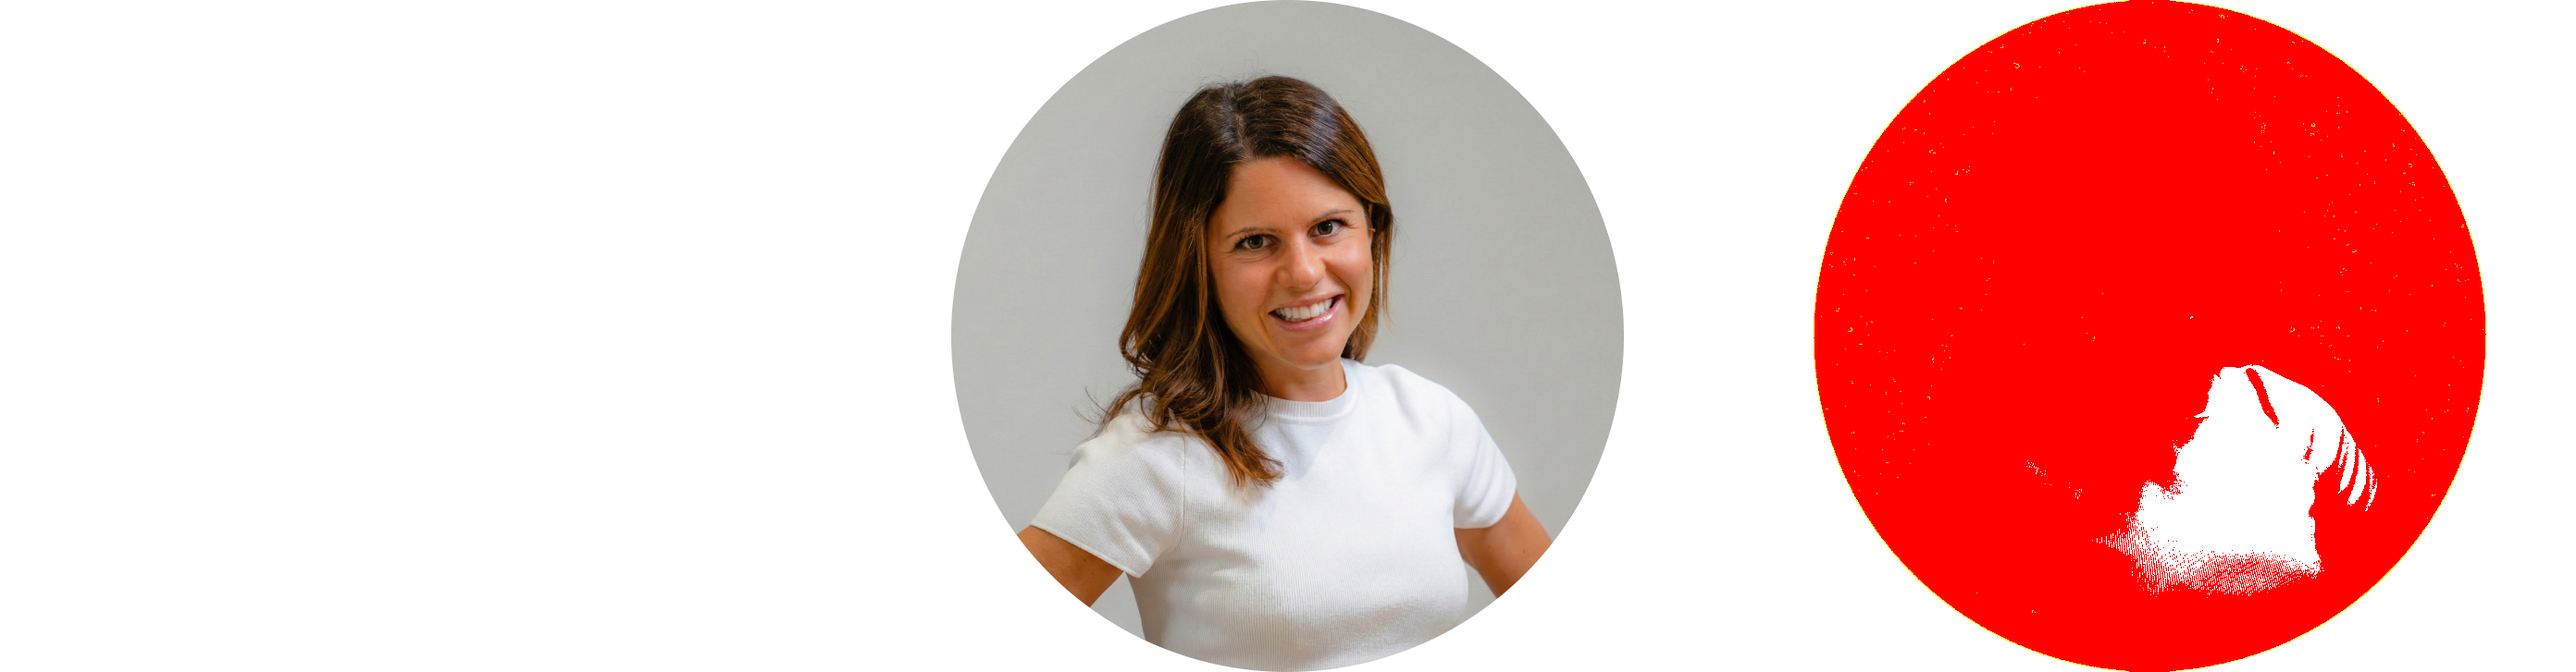
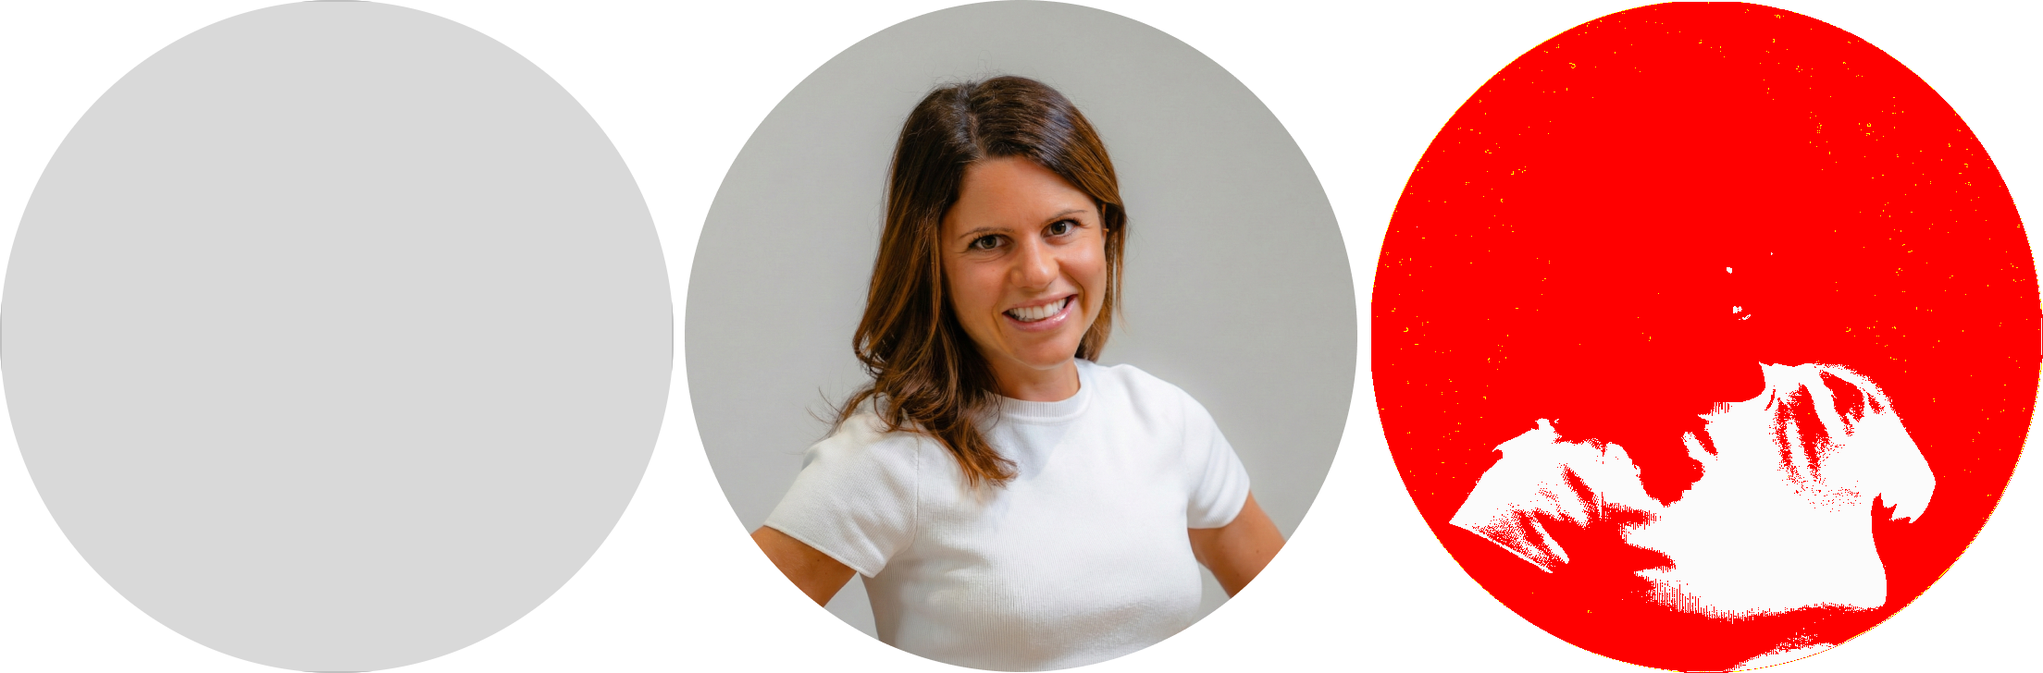
chore(011): régénérer le rapport de parité visuelle + ses triptyques
Relevé produit par l'instrument visual-parity, non issu du travail 013 de ce
commit-ci : le tableau est recalculé et s'étend à realisation, member-picture,
carte, member-card et product-card.

Plusieurs lignes portent **UNTRIAGED** — elles sont NOMMÉES comme telles dans
le rapport plutôt que passées sous silence, mais elles restent à trier : la
cause n'est pas encore établie pour member-picture (Défaut/Survol) et
section-header (Avec CTA, écart de largeur 2174 vs 3093).

Les autres écarts portent déjà leur cause : frontière image A5 (les pixels
IMAGE ne transitent volontairement pas par le contrat), crénage Montserrat
(Chromium crène, Figma non), et défauts de composition ouverts sur field/carte.

diff --git a/extract/figma/visual-parity/REPORT.md b/extract/figma/visual-parity/REPORT.md
@@ -31,6 +31,7 @@ moves the gate, explicitly, after review.
   triaged `renderer`.
 - **Font availability** (checked in-page via `document.fonts.check`):
   - "Montserrat": available locally (same face used in the preview)
+  - "Inter": available locally (same face used in the preview)
 - **Antialiasing**: edge pixels differ per renderer. pixelmatch's antialiasing
   detector is ON (its default) — a per-pixel classifier, not a tolerance knob.
 - **Subpixel positioning**: Figma positions nodes on fractional pixels; CSS layout
@@ -57,36 +58,92 @@ moves the gate, explicitly, after review.
 
 | subject | variant | gate/raw | masked diagnostic | mask coverage | surface | size ours vs figma | diagnosis | named cause (triage.ts) | triptych |
 |---|---|---|---|---|---|---|---|---|---|
-| nav-item | NavItem | 1.51% | 3.28% | 91.32% | dark | 378×24 vs 380×24 | diffuse delta — see triptych | — | report-assets/nav-item--navitem.triptych.png |
-| tab | Etat=Defaut | 0.01% | 0.00% | 68.29% | light | 172×82 vs 172×82 | near-identical | renderer: geometry is exact at 172×82 device px; residual is the master text plane rendering uppercase glyph ink while the bound Figma TEXT property reports default « Onglet », plus cross-renderer glyph rasterization. | report-assets/tab--etat-defaut.triptych.png |
-| tab | Etat=Selectionne | 0.01% | 0.00% | 68.29% | light | 172×82 vs 172×82 | near-identical | renderer: geometry is exact at 172×82 device px; residual is the master text plane rendering uppercase glyph ink while the bound Figma TEXT property reports default « Onglet », plus cross-renderer glyph rasterization. | report-assets/tab--etat-selectionne.triptych.png |
+| realisation | Taille=Grand | 99.97% | 99.97% | 0.00% | light | 1486×1486 vs 1486×1486 | overall ink differs (ours #bfc0c0 vs figma #e0e0e0) | capture-gap: A5 image boundary: Figma paints its non-semantic gray IMAGE placeholder while the runtime imageUrl default is empty; both variant dimensions are exact, but image pixels are intentionally not transported. | report-assets/realisation--taille-grand.triptych.png |
+| realisation | Taille=Petit | 99.86% | 99.86% | 0.00% | light | 679×679 vs 679×679 | overall ink differs (ours #bdc1c0 vs figma #e0e0e0) | capture-gap: A5 image boundary: Figma paints its non-semantic gray IMAGE placeholder while the runtime imageUrl default is empty; both variant dimensions are exact, but image pixels are intentionally not transported. | report-assets/realisation--taille-petit.triptych.png |
+| member-picture | Etat=Defaut | 64.48% | 64.48% | 0.00% | light | 728×728 vs 727×727 | overall ink differs (ours #d9d9d9 vs figma #aba198) | **UNTRIAGED** | report-assets/member-picture--etat-defaut.triptych.png |
+| carte | Disposition=Reassurance | 64.14% | 73.45% | 13.27% | light | 738×1065 vs 736×1064 | overall ink differs (ours #ababad vs figma #845f61) | engine: open component defect: IMAGE pixels are outside the contract transport and the two layouts still need distinct image sizing; Reassurance also lacks its measured shadow/alignment and Categorie lacks uppercase/rich-text treatment. | report-assets/carte--disposition-reassurance.triptych.png |
+| member-picture | Etat=Survol | 58.33% | 58.33% | 0.00% | light | 728×728 vs 727×727 | overall ink differs (ours #d9d9d9 vs figma #6d6d6c) | **UNTRIAGED** | report-assets/member-picture--etat-survol.triptych.png |
+| carte | Disposition=Categorie | 56.56% | 62.20% | 9.92% | light | 1486×1244 vs 1486×1244 | overall ink differs (ours #4f5154 vs figma #767672) | engine: open component defect: IMAGE pixels are outside the contract transport and the two layouts still need distinct image sizing; Reassurance also lacks its measured shadow/alignment and Categorie lacks uppercase/rich-text treatment. | report-assets/carte--disposition-categorie.triptych.png |
+| member-card | MemberCard | 52.52% | 56.86% | 7.74% | light | 728×895 vs 728×895 | overall ink differs (ours #d7d6d6 vs figma #aa9f97) | capture-gap: A5 image boundary: Figma paints the real portrait while ds.member-picture deliberately renders the documented #D9D9D9 technical placeholder; text and outer geometry agree (height Δ1 device px). | report-assets/member-card--membercard.triptych.png |
+| product-card | ProductCard | 15.64% | 16.51% | 7.73% | light | 728×624 vs 728×624 | overall ink differs (ours #787e85 vs figma #606866) | capture-gap: A5 image boundary: the master carries an IMAGE fill that the code-only imageUrl prop cannot obtain from the contract; the default empty URL leaves the 240px image plane unpainted while text and outer geometry remain near-equal. | report-assets/product-card--productcard.triptych.png |
+| section-header | Disposition=Avec CTA | 8.78% | 6.85% | 41.19% | light | 2174×108 vs 3093×108 | size ours 2174×108 vs figma 3093×108 (Δ-919, Δ0 device px) | **UNTRIAGED** | report-assets/section-header--disposition-avec-cta.triptych.png |
+| tab | Etat=Defaut | 3.60% | 0.00% | 68.29% | light | 172×82 vs 172×82 | text raster/family delta dominates | renderer: geometry is exact at 172×82 device px; residual is the master text plane rendering uppercase glyph ink while the bound Figma TEXT property reports default « Onglet », plus cross-renderer glyph rasterization. | report-assets/tab--etat-defaut.triptych.png |
+| tab | Etat=Selectionne | 3.60% | 0.00% | 68.29% | light | 172×82 vs 172×82 | text raster/family delta dominates | renderer: geometry is exact at 172×82 device px; residual is the master text plane rendering uppercase glyph ink while the bound Figma TEXT property reports default « Onglet », plus cross-renderer glyph rasterization. | out/tab/etat-selectionne.triptych.png |
+| google-reviews | Avis Google | 3.32% | 1.51% | 13.89% | light | 3104×656 vs 3104×656 | text raster/family delta dominates | **UNTRIAGED** | out/google-reviews/avis-google.triptych.png |
+| button | Style=Outline noir | 3.14% | 1.27% | 30.83% | light | 436×108 vs 438×108 | text raster/family delta dominates | renderer: Montserrat kerning: Chromium kerns, Figma does not — the label runs ~4 device px narrower (436 vs 440) and the delta rings glyph edges after center-padding; on bordered variants the inset-border ring rides the same shifted edges (Outilne noir), while white-on-transparent ink stays under-counted (Outline blanc, noted in the header) | out/button/style-outline-noir.triptych.png |
+| footer-column | FooterColumn | 2.77% | 0.09% | 71.86% | light | 322×182 vs 338×181 | size ours 322×182 vs figma 338×181 (Δ-16, Δ1 device px); text raster/family delta dominates; diff localized top-left (196×37px) | — | out/footer-column/footercolumn.triptych.png |
+| button | Style=Default | 2.70% | 0.66% | 30.83% | light | 436×108 vs 438×108 | text raster/family delta dominates | renderer: Montserrat kerning: Chromium kerns, Figma does not — the label runs ~4 device px narrower (436 vs 440) and the delta rings glyph edges after center-padding; on bordered variants the inset-border ring rides the same shifted edges (Outilne noir), while white-on-transparent ink stays under-counted (Outline blanc, noted in the header) | out/button/style-default.triptych.png |
+| button | Style=Orange | 2.70% | 0.66% | 30.83% | light | 436×108 vs 438×108 | text raster/family delta dominates | renderer: Montserrat kerning: Chromium kerns, Figma does not — the label runs ~4 device px narrower (436 vs 440) and the delta rings glyph edges after center-padding; on bordered variants the inset-border ring rides the same shifted edges (Outilne noir), while white-on-transparent ink stays under-counted (Outline blanc, noted in the header) | out/button/style-orange.triptych.png |
+| checkbox | Coche=Oui | 2.56% | 2.56% | 0.00% | light | 40×40 vs 40×40 | diffuse delta — see triptych | renderer: label advance-width hug (ours Δ-7 device px) shifts the center-padded pair; residual masked ink is the control-box edge ring + Figma label pixels escaping the DOM-derived text mask | out/checkbox/coche-oui.triptych.png |
+| button | Style=Blanc | 2.26% | 0.00% | 30.83% | light | 436×108 vs 438×108 | text raster/family delta dominates; diff localized middle-center (306×25px) | renderer: Montserrat kerning: Chromium kerns, Figma does not — the label runs ~4 device px narrower (436 vs 440) and the delta rings glyph edges after center-padding; on bordered variants the inset-border ring rides the same shifted edges (Outilne noir), while white-on-transparent ink stays under-counted (Outline blanc, noted in the header) | out/button/style-blanc.triptych.png |
+| field | Etat=Erreur | 2.20% | 1.24% | 15.18% | light | 560×212 vs 560×212 | diffuse delta — see triptych | engine: open composition defect: the slotted Input keeps intrinsic width and the Field error state cannot yet propagate the measured red border/aria-invalid to the composed control. | out/field/etat-erreur.triptych.png |
+| section-header | Disposition=Standard | 1.91% | 0.00% | 88.82% | light | 1082×158 vs 1081×156 | text raster/family delta dominates | — | out/section-header/disposition-standard.triptych.png |
+| field | Etat=Normal | 1.84% | 1.51% | 8.89% | light | 560×162 vs 560×162 | diffuse delta — see triptych | engine: open composition defect: the slotted Input keeps intrinsic width and the Field error state cannot yet propagate the measured red border/aria-invalid to the composed control. | out/field/etat-normal.triptych.png |
+| avantage | Avantage | 1.81% | 0.00% | 54.59% | light | 1518×150 vs 1518×150 | text raster/family delta dominates | — | out/avantage/avantage.triptych.png |
+| review-card | Review-card | 1.68% | 0.00% | 17.48% | light | 598×478 vs 598×478 | text raster/family delta dominates | — | out/review-card/review-card.triptych.png |
+| nav-item | NavItem | 1.25% | 0.25% | 91.32% | dark | 378×24 vs 380×24 | diffuse delta — see triptych | — | out/nav-item/navitem.triptych.png |
+| button | Style=Link | 0.99% | — | 100.00% | light | 307×24 vs 307×24 | diffuse delta — see triptych | renderer: Montserrat kerning: Chromium kerns, Figma does not — the label runs ~4 device px narrower (436 vs 440) and the delta rings glyph edges after center-padding; on bordered variants the inset-border ring rides the same shifted edges (Outilne noir), while white-on-transparent ink stays under-counted (Outline blanc, noted in the header) | out/button/style-link.triptych.png |
+| carousel-controls | CarouselControls | 0.41% | 0.41% | 0.00% | light | 3208×104 vs 3208×104 | diff localized middle-right (72×104px) | — | out/carousel-controls/carouselcontrols.triptych.png |
+| input | Input | 0.17% | 0.17% | 0.00% | light | 560×96 vs 560×96 | diff localized middle-left (179×20px) | — | out/input/input.triptych.png |
+| accordion-row | Taille=Grand, Etat=Ferme | 0.13% | 0.00% | 2.78% | light | 3100×128 vs 3100×128 | diff localized middle-left (182×39px) | — | out/accordion-row/taille-grand_etat-ferme.triptych.png |
+| accordion-row | Taille=Grand, Etat=Ouvert | 0.08% | 0.00% | 2.26% | light | 3100×240 vs 3100×240 | diff localized middle-left (182×144px) | — | out/accordion-row/taille-grand_etat-ouvert.triptych.png |
+| textarea | Textarea | 0.06% | 0.00% | 6.41% | light | 560×256 vs 560×256 | diff localized top-left (179×20px) | — | out/textarea/textarea.triptych.png |
+| accordion-row | Taille=Petit, Etat=Ouvert | 0.02% | 0.00% | 2.43% | light | 3100×160 vs 3100×160 | near-identical | — | out/accordion-row/taille-petit_etat-ouvert.triptych.png |
+| accordion-row | Taille=Petit, Etat=Ferme | 0.00% | 0.00% | 2.52% | light | 3100×80 vs 3100×80 | near-identical | — | out/accordion-row/taille-petit_etat-ferme.triptych.png |
+| button | Style=Outline blanc | 0.00% | 0.00% | 30.83% | light | 436×108 vs 438×108 | near-identical | renderer: Montserrat kerning: Chromium kerns, Figma does not — the label runs ~4 device px narrower (436 vs 440) and the delta rings glyph edges after center-padding; on bordered variants the inset-border ring rides the same shifted edges (Outilne noir), while white-on-transparent ink stays under-counted (Outline blanc, noted in the header) | out/button/style-outline-blanc.triptych.png |
+| button | Style=Icône seule | 0.00% | 0.00% | 0.00% | light | 104×104 vs 104×104 | near-identical | renderer: Montserrat kerning: Chromium kerns, Figma does not — the label runs ~4 device px narrower (436 vs 440) and the delta rings glyph edges after center-padding; on bordered variants the inset-border ring rides the same shifted edges (Outilne noir), while white-on-transparent ink stays under-counted (Outline blanc, noted in the header) | out/button/style-ic-ne-seule.triptych.png |
+| checkbox | Coche=Non | 0.00% | 0.00% | 0.00% | light | 40×40 vs 40×40 | near-identical | renderer: label advance-width hug (ours Δ-7 device px) shifts the center-padded pair; residual masked ink is the control-box edge ring + Figma label pixels escaping the DOM-derived text mask | out/checkbox/coche-non.triptych.png |
+| copyright | Copyright | 0.00% | — | 100.00% | light | 1234×28 vs 1233×27 | near-identical | — | out/copyright/copyright.triptych.png |
 
 ## Not diffed (named, never dropped)
 
-_none_
+| subject | variants | status | reason |
+|---|---|---|---|
+| button-with-icons | Property 1=Outilne noir | skipped | axis "Property 1=Outilne noir" has no contract binding (props: Style, Libelle, Icone gauche, Icone droite, Glyphe gauche, Glyphe droite) |
+| piqueray-logo | Couleur=Default, Couleur=Blanc | refused | render refused: Refused — 2 contract violation(s):   - ds.piqueray-logo: part "Marque" needs vector asset "assets/vectors/piqueray-logo-marque.svg" which does not exist |
 
 ## Distribution (authoritative raw score)
 
-- ≤ 1%: 2 variant(s)
-- 1–3%: 1 variant(s)
-- 3–10%: 0 variant(s)
-- > 10%: 0 variant(s)
+- ≤ 1%: 12 variant(s)
+- 1–3%: 11 variant(s)
+- 3–10%: 5 variant(s)
+- > 10%: 8 variant(s)
 
-- diffed: 3 · skipped/refused/declined: 0
+- diffed: 36 · skipped/refused/declined: 3
 
 ## Gate read (triage classes)
 
-- **UNTRIAGED over 3%: 0** — the queue is empty
-- > 10% by class: (empty)
-- 3–10% by class: (empty)
-- open `engine`-class causes: 0 (an engine row is a tracked defect, not an accepted delta)
+- **UNTRIAGED over 3%: 4** — google-reviews :: Avis Google; member-picture :: Etat=Defaut; member-picture :: Etat=Survol; section-header :: Disposition=Avec CTA
+- > 10% by class: capture-gap ×4, UNTRIAGED ×2, engine ×2
+- 3–10% by class: renderer ×3, UNTRIAGED ×2
+- open `engine`-class causes: 4 (an engine row is a tracked defect, not an accepted delta)
 
 ## Subjects
 
 | subject | figma set version | composition | fonts in set |
 |---|---|---|---|
-| nav-item (contract) | v2381229993207753432 | repo tokens only | Montserrat |
-| tab (contract) | v2381229993207753432 | repo tokens only | Montserrat |
+| button (contract) | v2381581871281042338 | repo tokens only | Montserrat |
+| checkbox (contract) | v2381581871281042338 | repo tokens only | (none) |
+| review-card (contract) | v2381581871281042338 | repo tokens only | Inter, Montserrat |
+| google-reviews (contract) | v2381581871281042338 | repo tokens only | Inter, Montserrat |
+| input (contract) | v2381581871281042338 | repo tokens only | Montserrat |
+| textarea (contract) | v2381581871281042338 | repo tokens only | Montserrat |
+| button-with-icons (contract) | v2381581871281042338 | repo tokens only | Montserrat |
+| member-picture (contract) | v2381581871281042338 | repo tokens only | (none) |
+| piqueray-logo (contract) | v2381581871281042338 | repo tokens only | (none) |
+| accordion-row (contract) | v2381581871281042338 | repo tokens only | Montserrat |
+| avantage (contract) | v2381581871281042338 | repo tokens only | Montserrat |
+| carousel-controls (contract) | v2381581871281042338 | repo tokens only | Montserrat |
+| carte (contract) | v2381581871281042338 | repo tokens only | Montserrat |
+| copyright (contract) | v2381581871281042338 | repo tokens only | Montserrat |
+| field (contract) | v2381581871281042338 | repo tokens only | Montserrat |
+| footer-column (contract) | v2381581871281042338 | repo tokens only | Montserrat |
+| member-card (contract) | v2381581871281042338 | repo tokens only | Montserrat |
+| nav-item (contract) | v2381581871281042338 | repo tokens only | Montserrat |
+| product-card (contract) | v2381581871281042338 | repo tokens only | Montserrat |
+| realisation (contract) | v2381581871281042338 | repo tokens only | (none) |
+| section-header (contract) | v2381581871281042338 | repo tokens only | Montserrat |
+| tab (contract) | v2381581871281042338 | repo tokens only | Montserrat |
 
 ## Reading a triptych
 
